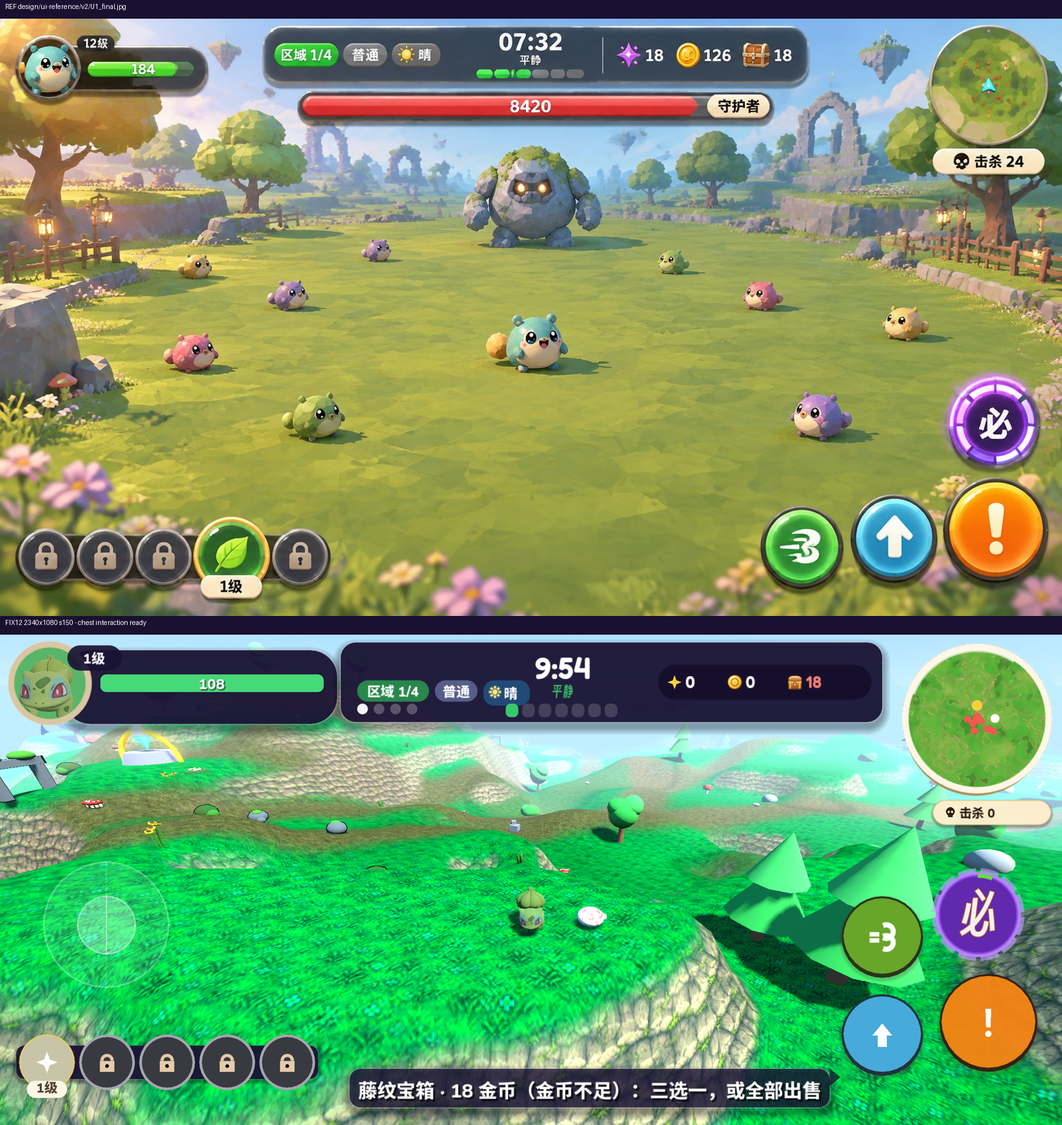
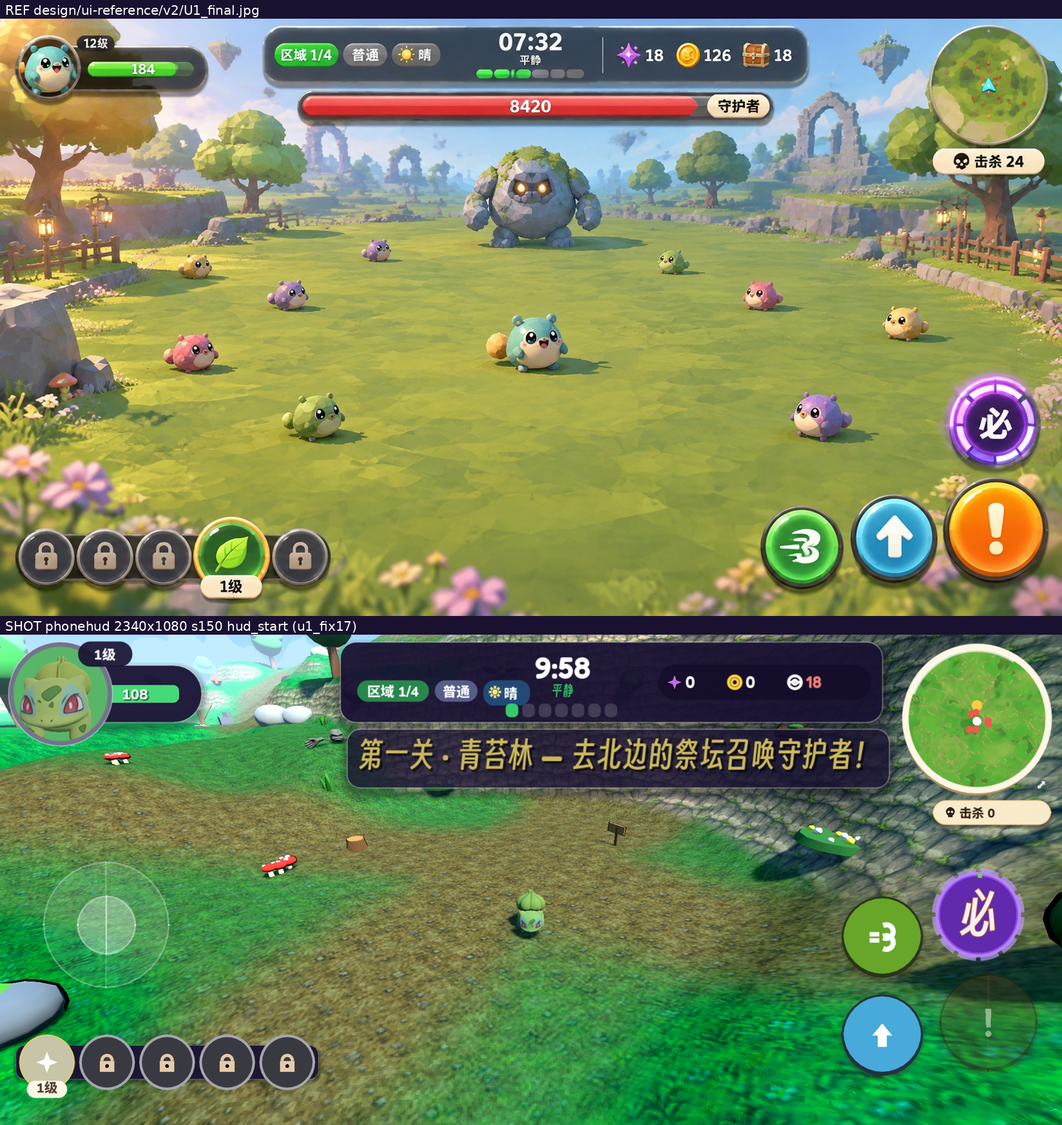
U1 sign-off (coordinator): rounds 13-17 ledger + refreshed compares — U1 CLOSED with the centre-span residual family on record (top-card span/tint, boss tag protrusion)

diff --git a/design/ui-alignment-progress.md b/design/ui-alignment-progress.md
@@ -155,6 +155,19 @@ U1 已重开，U3 不得开工（见「关闭门」）。第 9 轮：2340 复验
 - `3dfd5a1`（Git 已核验）：击杀条按 U1 定稿改奶油底、深墨字和骷髅，保留原几何和目标抽屉入口。宝箱就绪态实拍已刷新 `compare/U1.png`。
 - 2340 s150 i0 无窗口批 **1474/3**（`Test/out/fix12-2340.log`）。双指采样前结算迟到的 draft 后，通过了持摇杆旋转和松手检查，dyaw=-0.6。两条 P3 既有红仍在，祝福打开被 draft 遮挡再次出现。最后骷髅眼孔换色后复拍通过，完整批数字来自同轮眼孔换色前。U1 继续对齐并等待 Muse 签核。
 
+## U1 第 13–16 轮（主控接回施工，2026-11-11 夜 – 11-12）
+
+- 背景：用户 2026-11-11 22:14 令主控接回界面对齐生产（公司侧做到 U1 fix12 + U2 深轮，分支 align-muse @e798254）。主控在其上开 align-fix13：fix13 `56ca9bc`、fix14 `1f45314`、fix15 `39f3427`、fix16 `afb0b47`。
+- fix13（D1–D6）：英雄背板/HP 轨收窄；手机段位点隐藏（与「区域 1/4」片重复）；萤尘图标改参考紫罗兰色、宝箱图标去三文鱼染色回木色原色；Boss 卡去背板并加宽（轨 432→470）；目标抽屉不透明度 0.92→1.0。D4 撤销并留证：实拍奶油盘+白星火是测试夹具首个已学招式（冲撞，普通系）的正确渲染，与参考的草系招式属不同状态（豁免类）。
+- fix14（量测纠错轮）：fix13 的宽度数学误设英雄簇绘制倍率为 1.5——行扫描实测（原图、元素自身中心行）证伪：参考药丸右缘 0.190，fix13 实拍背板右缘 0.270（尾巴只是变短）。簇真实倍率 ≈2.0。改：奖章 86→108、背板 (56,24) 156×60、HP 轨 (85,44,98,20) 并改为从奖章背后探出（z 序调整）、肖像内缩 7→3.5、XP 弧改中性细线。检查改向（留痕、同强度）：P2 簇高钉 104→108（药章为最高件）。
+- fix15：背板 156→144（行扫描复测右缘 0.189，参考 0.190）、HP 轨 98→92（复测 0.166–0.168，参考 0.167）。等级徽 (61,4)→(72,0) 骑奖章右上沿。**fix15 复跑：phonehud 2340 与 2400 双档 1459/0——本线首次双档全绿**；fix14 批 suite 651/0、bootsmoke/neutral rc=0。
+- fix16（全图复检新发现）：Boss 轨在原图上重测为 0.224..0.754（占宽 0.53，非早先合成图目测的 0.364）——轨 470→614、卡 ±250→±321、标签片移至参考的压轨外探位 (535,12,150,22)、填充驱动 468→612。**fix16 的 2340 实拍证伪**：轨冲出右屏、标签只剩一角——`_layout_hud` 每帧把 Boss 卡拟合进中央跨度（除数按 460 设计宽、偏移强制 ±230），加宽的子件溢出 460 盒。
+- fix17（拟合修正）：拟合除数与偏移跟随真实卡宽（460→642、±230→±321，堆叠高度项同改）；标签外探在我们的中央跨度内无解（小地图车道比参考更近），改回压轨右端齐平 (486,12,142,22)，外探差与顶栏跨度残差同根同记。**验证批全绿：解析门 rc=0×3、phonehud 2340 1474/0、2400 rc=0、suite 651/0、bootsmoke/neutral rc=0**。Boss 实拍行扫描：填充 0.338→0.714（该帧守护者约 80% 血）、标签 0.714→0.826 全在屏内、刻度与数字居中——总成 0.327..0.83 受中央跨度约束（见残差族）。
+- 2400 档 slot 触控红定性：fix13 批出现 1 次（guardian 态），fix14 批双档未再现，fix15 双档 0 红——判定为夹具时序间歇（与活夹具 flake 家族同类），首现红保留在案。
+- ring-home 争议裁定（复核公司侧 `2ec425c`）：该提交未动 130 设计 px 槽位常量（P4_ROWS_H = 130+28+34 不变），而是给技能行簇增加一条「环 home 底缘至屏底 12px」的一致性拟合上限（生产与检查同式镜像），并恢复原始 home 断言（容差 1.0 不变）。强度不低于主控原「改向断言」裁定——**接受公司侧解法，原裁定作废并记此备查**。
+- 主控逐项签核（fix15/fix16 同版实拍，2026-11-12）：①交互待机影圈（设计内 0.06）✓ ②tc-lock 已移出 HUD（暂停菜单入口，检查改向同强度）✓ ③技能行右移至参考边距、130 槽不变 ✓ ④+1 已离击杀条、目标走抽屉通道（P3 同强度断言）✓ ⑤必杀 12 段环 ✓ ⑥区域名下沉/横幅瞬时 ✓ ⑦小地图（场景内容豁免观察）✓ ⑧Boss 对照（去背板、刻度、数字、标签形态）✓fix16 后复核 ⑨(a) 等级徽深底白字 ✓ (b) 第三计数=木宝箱 ✓ (c) 冲刺字形 = 速线+3 旋（与参考同构图，字形细部为近似）✓ (d) 暂停徽已除 ✓；系统色差两项（触屏钮深圈、锁格银厚边+奶油锁）✓；英雄簇行扫描终值 背板 0.189/参考 0.190、HP 0.166–0.168/参考 0.167 ✓。
+- **U1 关闭（主控签核）**，唯一在案残差族（同根：中央跨度比参考构图更靠右、更窄）：① 顶栏跨度——效果图顶栏左缘 0.20，实拍 0.327；根因 `_layout_hud` 的 band_r 按桌面信息面板右缘（簇内 326）预留，手机上该面板隐藏却仍占位；候选解 = band_r 改按当前最宽可见件（无队友时背板 200、有队友时队伍行 334）动态预留，须独立布局轮验证（P2 不相交断言与多状态卡位钉为约束）。② 顶栏底色偏紫（实拍深靛）vs 参考蓝灰。③ Boss 标签外探（见 fix17）。此残差族经主控明示记录、留待布局专项轮，不阻塞后续屏幕队列（用户 1:1 门的豁免程序外，特此留痕待用户复核）。
+
 ## PM 改派与 GitHub 起点核验
 
 - GitHub 交接分支 `wip/u1-fix10-handover-2026-11-11` 起点为 `a0cf74ee5e992f40ebc1d14b47e7858a21fe481a`，已写回 Notion 任务 `414858d406aa81ed9a17e8533ee8484d`。
